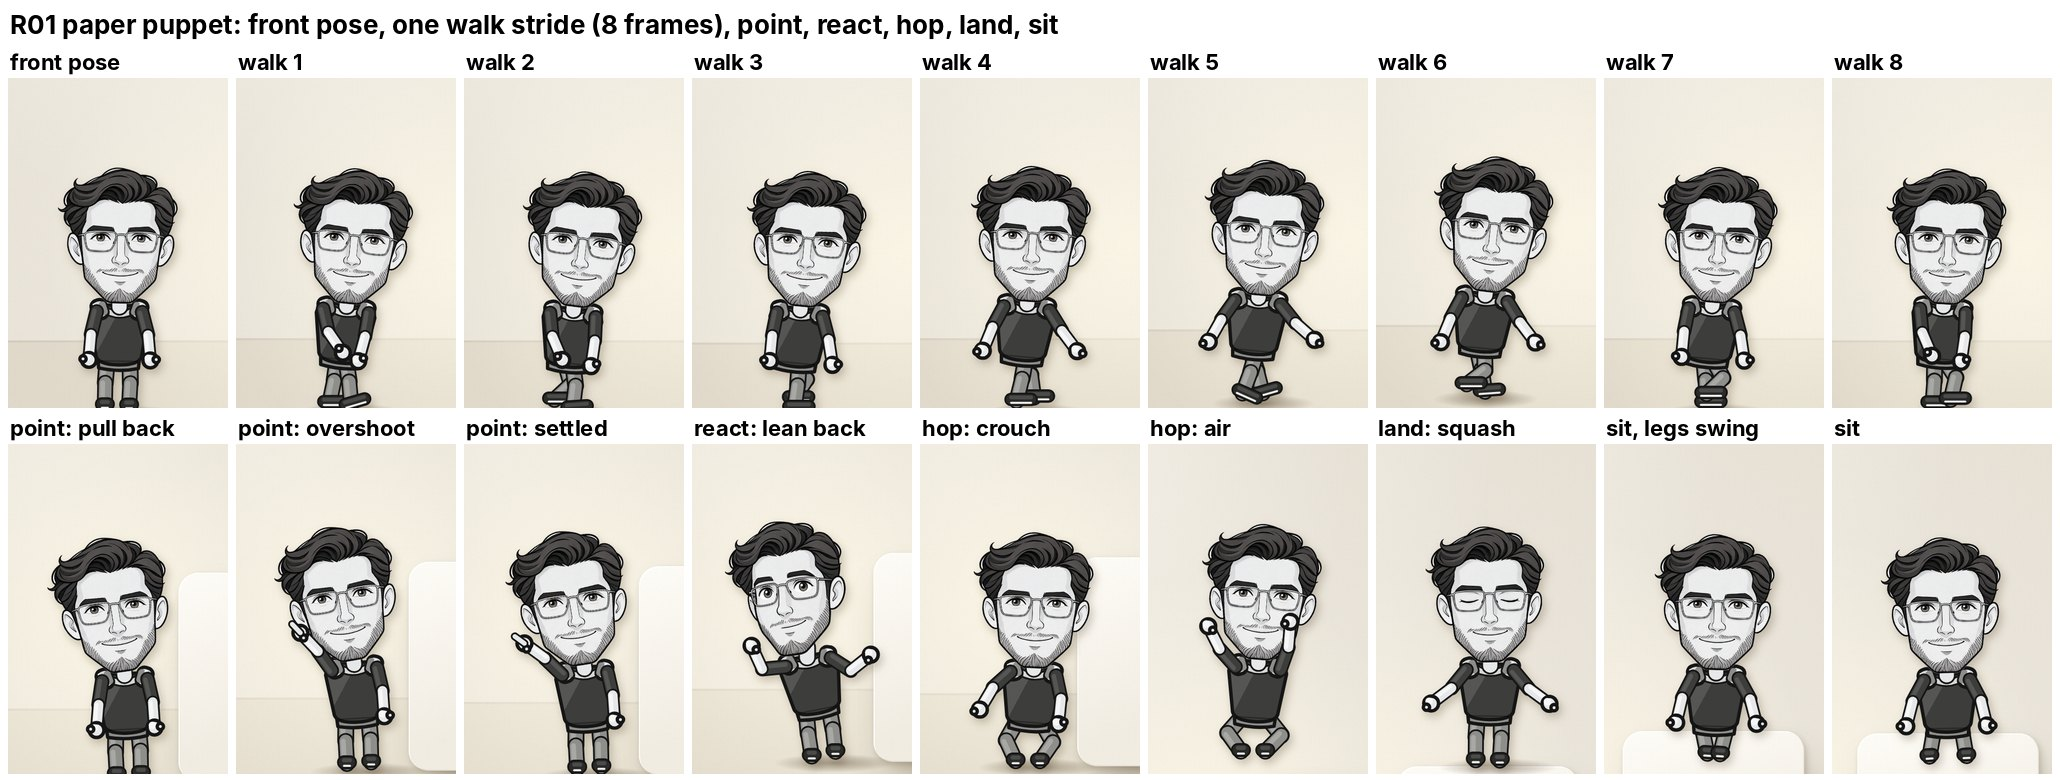
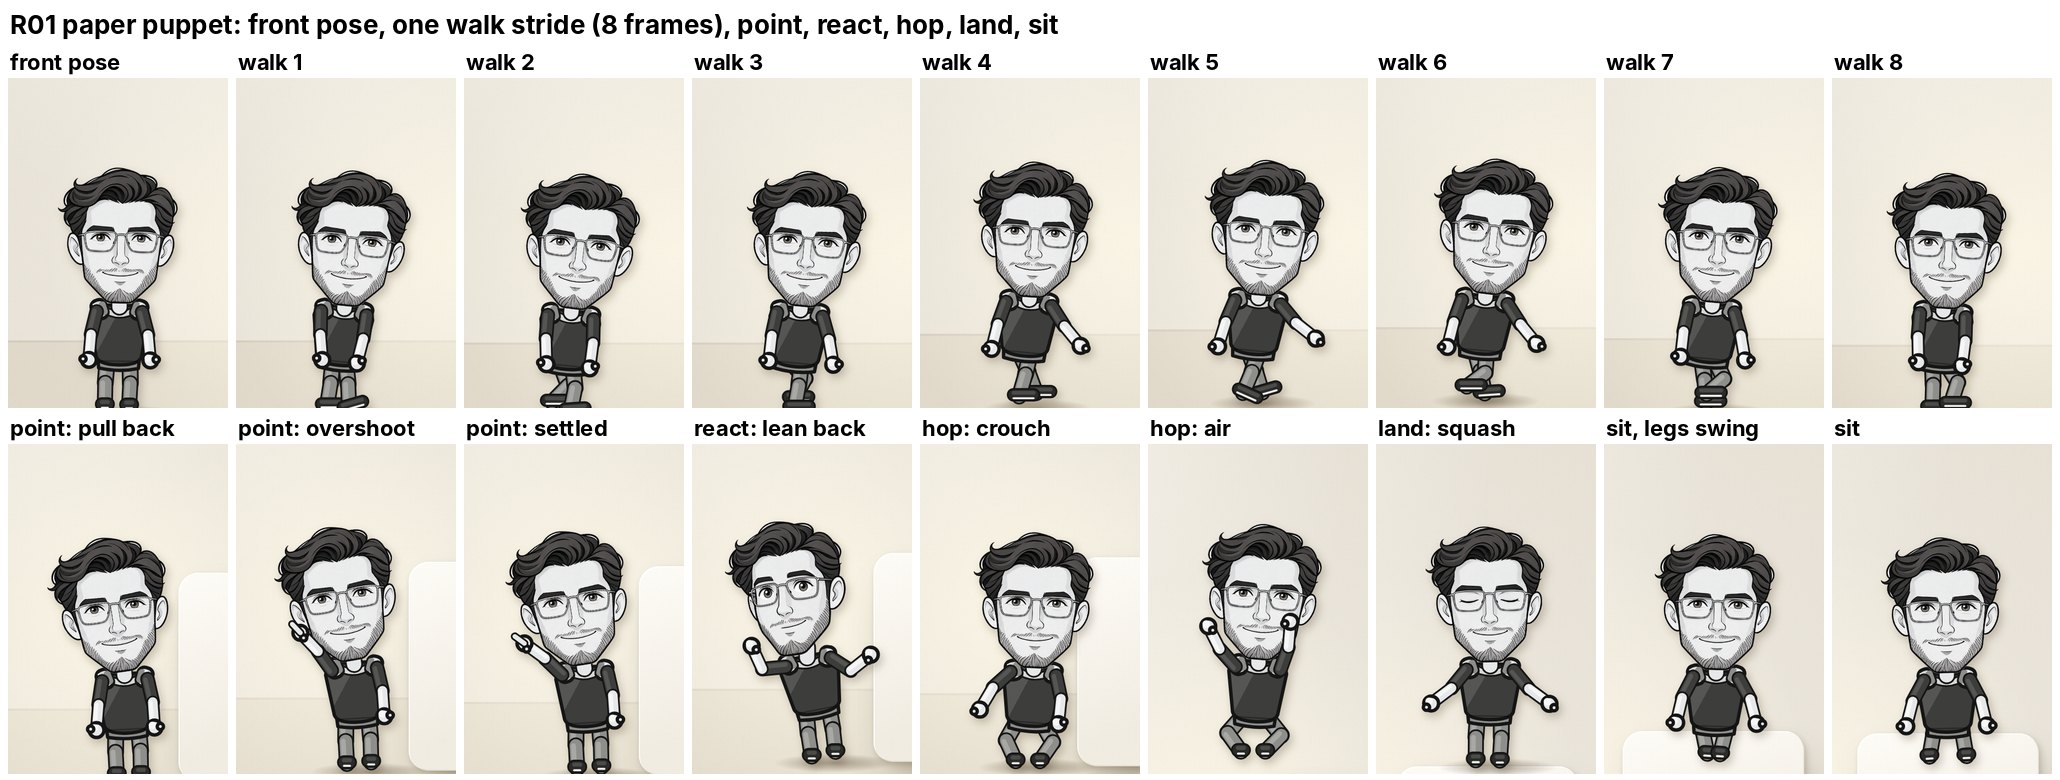
Director C: shot table, look card and fact row in script.md; demo pictures redrawn
Claude-Session: https://claude.ai/code/session_01Eh7A8fmmnjdrmEmc7wVGjB

diff --git a/reels/2026-11-15-12-reels-c/script.md b/reels/2026-11-15-12-reels-c/script.md
@@ -1,6 +1,6 @@
 # I made Claude study 12 viral reels, frame by frame
 
-**Status: approved by the owner on 15 Nov 2026.** Voice: the channel voice in `brand/voice/voice.json`, normal speed.
+**Status: script approved by the owner on 15 Nov 2026.** This folder is director C's remake of the picture (the character version); the spoken words are unchanged and its storyboard is not yet approved. Voice: the channel voice in `brand/voice/voice.json`, normal speed.
 
 ## Voiceover
 
@@ -27,6 +27,7 @@
 | Moves with a sound within 3 frames | 103 of 210 | `collection/recipes/sound.md` | 15 Nov 2026 |
 | Sound starts early | middle value half a frame | `collection/recipes/sound.md` | 15 Nov 2026 |
 | Endings | 9 comment a keyword, 1 follow, 2 a closing line | `collection/recipes/script.md` (8 spoken, 1 on screen only) | 15 Nov 2026 |
+| Frames per reel (director C: the hook's counter shows the running total as he counts each reel) | 1,184; 1,303; 859; 1,286; 1,197; 1,682; 2,712; 1,272; 2,508; 1,109; 981; 2,178 (running totals 1,184 ... 16,093, 18,271) | `collection/data/r01` ... `r12/events-summary.json`, field `frames`; they sum to 18,271 | 16 Nov 2026 |
 
 ## For you to confirm (truth check)
 
@@ -58,3 +59,37 @@
 | "Stop adding a sound to every move." | Contrarian | 7: sharp, but it is only one of the four points |
 
 Hook Master is not installed in this workspace, so these were scored with the rubric in reel-director only.
+
+## Director C: the character version (16 Nov 2026)
+
+The avatar drives the story: a paper puppet with a body (new, for the owner to approve) walks, points, reacts, sits on the cards, uses props and rides the transitions. Every finding is something he does. Code and recipes: `studio/packs/character*`, `collection/recipes/pack-character.md` (R01-R15).
+
+### Shot table
+
+| # | Scene (type) | On screen | Moves | Transition in | Sound | Energy |
+| --- | --- | --- | --- | --- | --- | --- |
+| 1 | `charHook` 0.00-6.13 | Tally counter already rolling; twelve reel cards; the large approved face talking | The head flies down to reel 01 and his body unfolds in parts (R02); he hops across the twelve reels, each lights and its frames roll onto the counter; a high jump and a stomp land 18,271 on "eighteen thousand"; he points up at it; two chips pop | - | whoosh (unfold), pop (lands), a tick per reel, impact (stomp), pop per chip | 4 |
+| 2 | `charDeal` 6.13-8.07 | "4 things"; three finding cards on the wall, an empty slot for card 1 | He deals cards 2, 3, 4 with flicks of the wrist, 3 frames apart (R03); shows card 1 at his side; winds up | `charTear`: he grabs the page edge and leaps across, tearing it away (R10) | tear; swoosh (deal); pop | 4 |
+| 3 | `charUnderline` 8.07-13.70 | Step 01 card: "Talk from frame zero", 12 speech bubbles, "12 of 12 start talking at 0.0 s"; INTRO and LOGO cards | Finger up on "One"; he runs along the card's top edge dragging a giant red pencil whose tip draws the underline and pops the bubbles (R04); golf-swings INTRO off the ledge; stomps LOGO flat | `charThrow`: he throws card 1 at the camera and it lands as this card (R11) | swoosh (throw); scratch (pencil); swoosh (swing); stamp (stomp) | 3 |
+| 4 | `charMeasure` 13.70-19.40 | "Longest still moment"; bar race (Reel 09 1.67 s, Reel 12 1.40, Reel 11 1.27, Reel 02 1.17) | He sits on the card's top edge, legs never still (R01s); on "longest" a magnifier goes over the 1.67 bar and shows it large (R05); a curious head tilt on "seven" | `charLift`: he jumps off the old page and rides the rising chart card up (R12) | whoosh (lift); pop (bars land); swoosh (magnifier); click | 2 |
+| 5 | `charMute` 19.40-26.17 | "A sound on every move?"; counter 210; a desk of ten speaking channels in front of him; a strip with the sound half a frame early | **Hero.** Every speaker blares: hands to his ears, a wince; "No.": jump and slam, head shake; he runs along the desk muting every other channel while the counter rolls to 103 (R06); points at the strip | `charHole`: he drops through a punched hole that shows this scene and climbs up behind the desk (R13) | pop (hole); riser (blare); impact (slam); a click per mute; tick | 5 |
+| 6 | `charSort` 26.17-34.27 | "The ending"; three trays: Comment one word, Follow, Just stop | Holds the twelve endings up; deals nine in a stream into the first tray, flicks one high into the second, drops two that land dead into the third (R07); counts 9, 1, 2 of 12 pop; shrug | `charWhip`: whipped off with the old scene, he flies in and lands with a squash (R14) | swoosh (whip); swoosh (stream); pop; pop; tick | 4 |
+| 7 | `charSave` 34.27-36.20 | The large approved face; "Save this."; bookmark | He nods to the bookmark, it fills; a wink (R08) | `charPush`: the camera rams into his face until it is this face (R15) | riser (push); pop (bookmark) | 2 |
+| 8 | `cta` 36.20-41.77 | The outro as approved: "Comment STUDY", keys, comment field, sign-off card | The large face waits low on the left looking up at the keys, becomes the picture in the sign-off card, grins after Follow | `tear` (our signature, chapter change) | tear; the outro's own clicks, ticks, pop, swoosh, scratch | 3 |
+
+Moves, none repeated back to back: unfold, hop-count and stomp; deal; pencil run, golf swing, stomp-flatten; sit-swing, magnify; ears, jump-slam, run-and-mute; sort into piles; nod and wink; large face into the sign-off. Transitions, none repeated: `charTear`, `charThrow`, `charLift`, `charHole`, `charWhip`, `charPush`, `tear`. Energy 4, 4, 3, 2, 5, 4, 2, 3: it rises to the hero at scene 5, drops for "Save this", and lifts for the ask. Neighbouring scenes never share layout and scale (puppet head 170, 250, 165, 150, 290, 220 px, then the large face at 430 and 280 px).
+
+### Look card (director C)
+
+| Choice | Value | Why |
+| --- | --- | --- |
+| Background | Paper Studio | Locked |
+| Avatar | The approved heads (small) and expression faces (large), uniform scale and rotation only, on a new jointed paper body in the heads' greys and outline weight, headphones round the neck | The owner's angle for this version: the avatar drives the story. **The body is new: the owner approves it** (`collection/demo/character/r01-puppet.jpg`) |
+| Large face | At frame 0, for "Save this", and through the outro (it becomes the sign-off picture) | Brief and A01/A06 |
+| Accent | #c2381d | Unchanged; 4.5 to 1 on the paper. Used for the keywords, the hero bar, the pencil and its line, the muted keys, the outro |
+| Type | Inter and Lora | Unchanged |
+| Structure | P03 numbered list with an H01 hook (counter already running) | Unchanged script |
+| 3D | None | He is drawn in 2D and has to touch things precisely; the owner's one-or-two-3D-scenes rule is not met in this version: the owner decides |
+| Transitions | Six of the pack's, each caused or ridden by him, plus the signature tear into the outro | One per change, never the same twice |
+| Captions | 2 to 4 words, top fifth, keyword in Lora italic on tape | Unchanged (C01, N03) |
+| Sound | The ten sounds in `assets/sfx`, on transitions and the key moves only | Sound rules in the skill |
